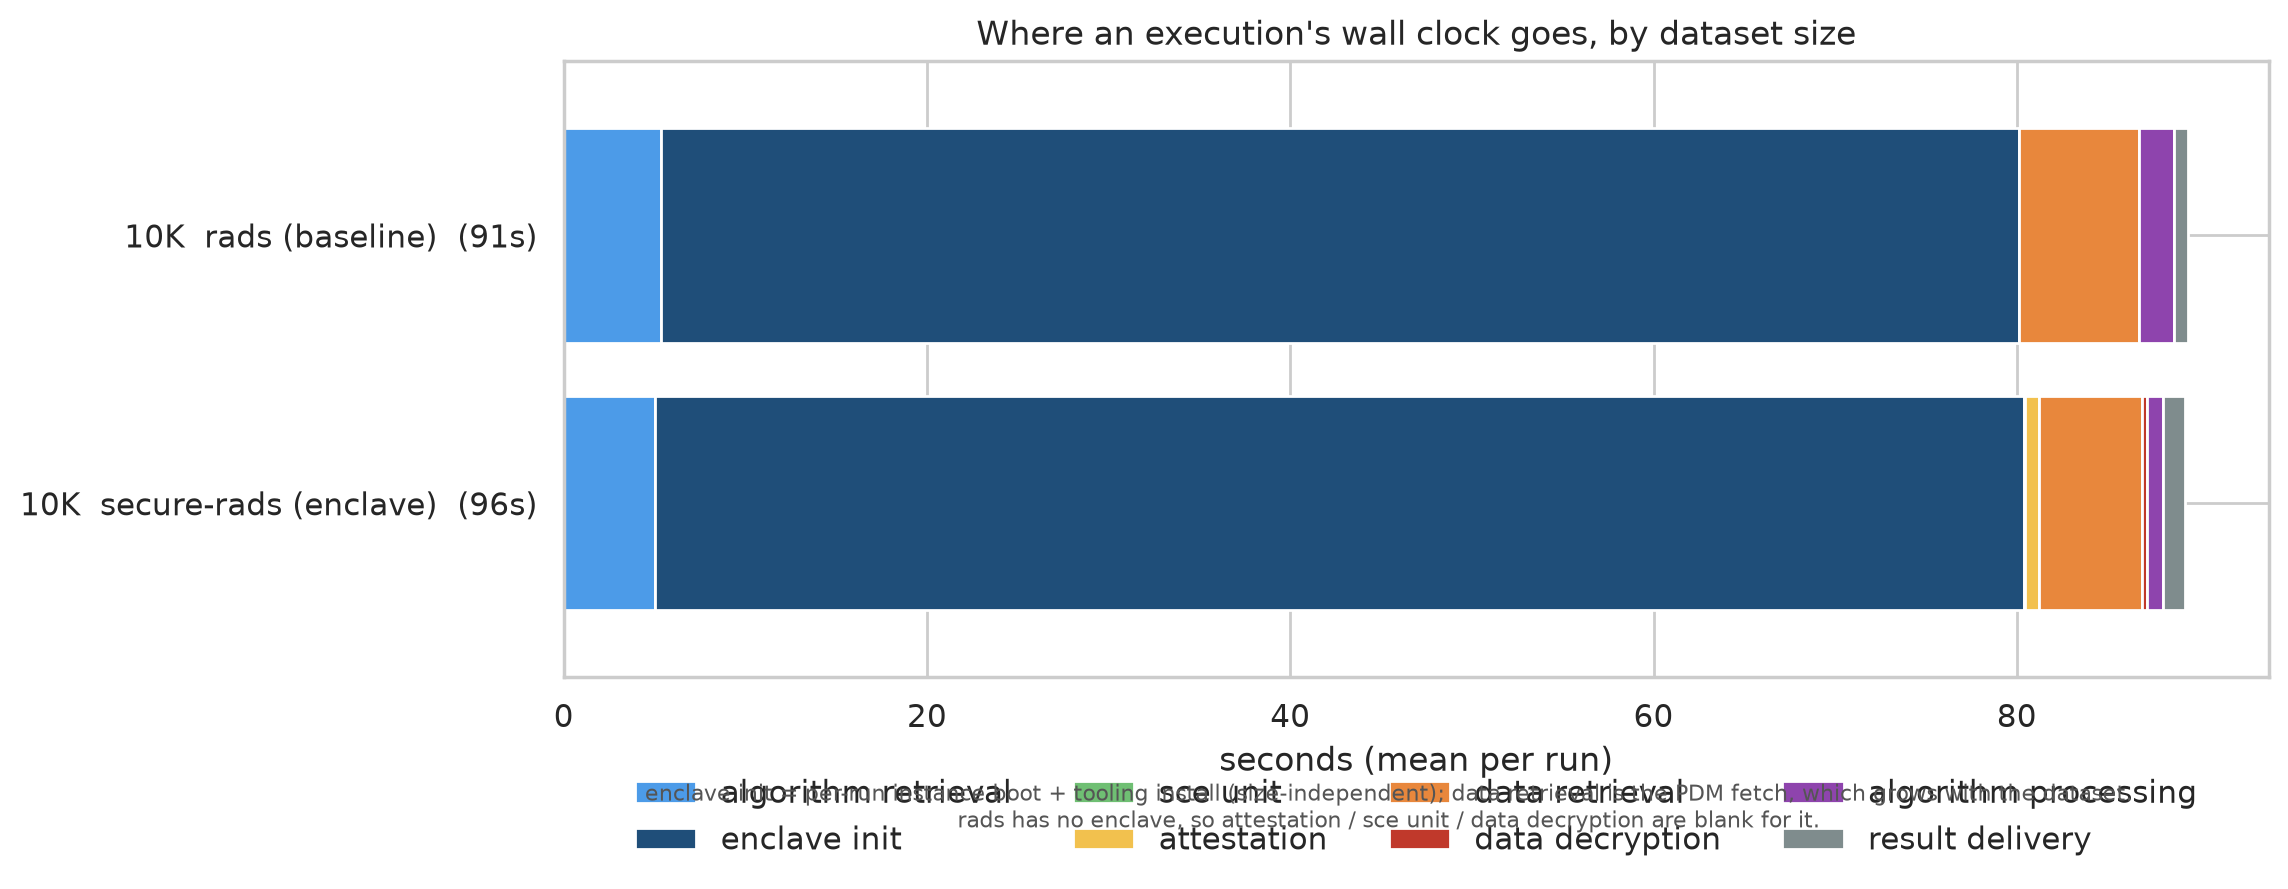
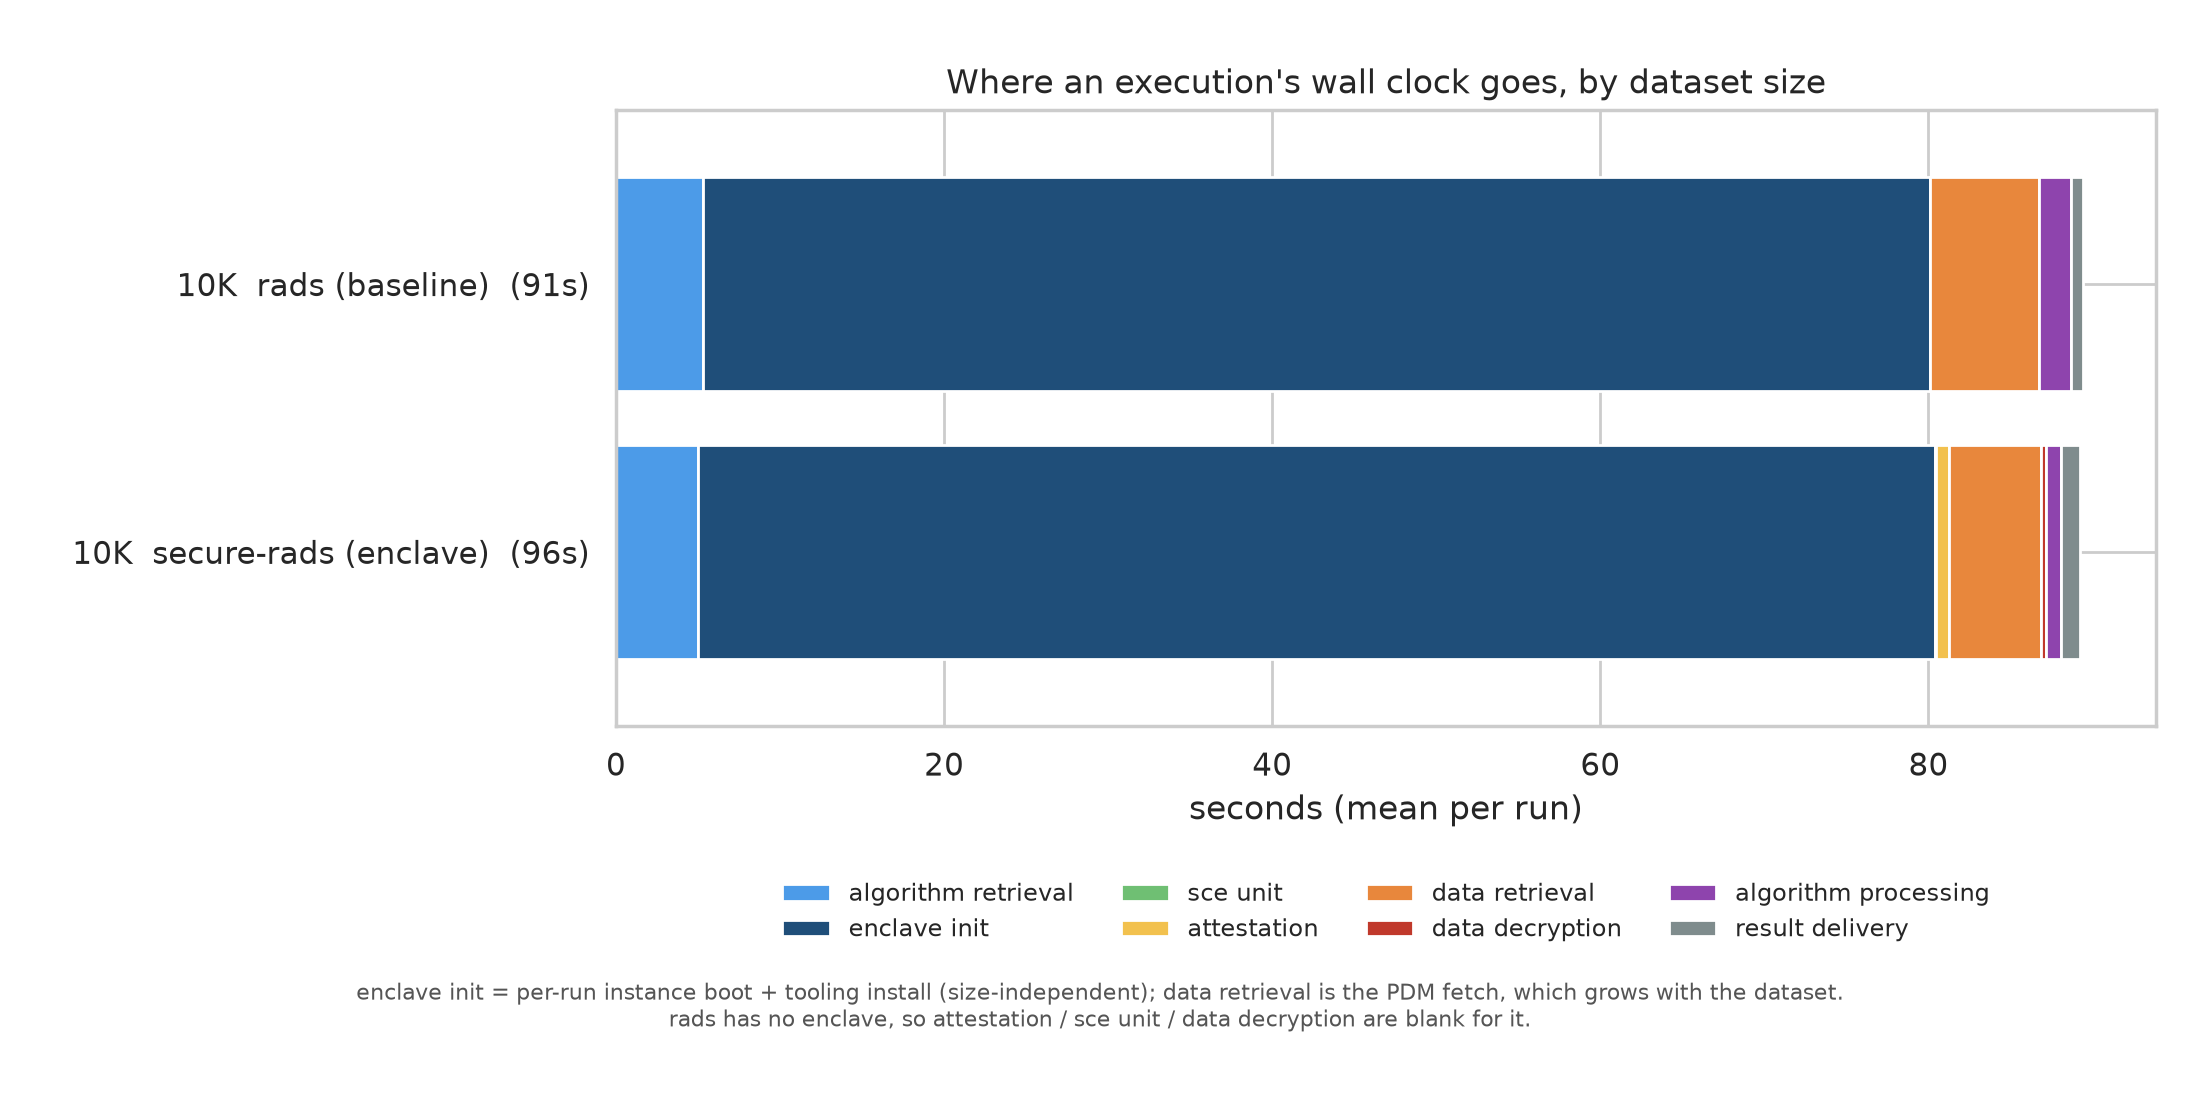
fix(benchmark): keep phases legend and footnote from overlapping

Changed region(s): [[0.0, 0.0304, 1.0, 0.9719]]

diff --git a/benchmark/src/plot.py b/benchmark/src/plot.py
@@ -46,9 +46,9 @@ def load() -> pd.DataFrame:
     return df
 
 
-def _save(fig: plt.Figure, name: str) -> None:
+def _save(fig: plt.Figure, name: str, *, tight: bool = True) -> None:
     out = FIG_DIR / name
-    fig.savefig(out, bbox_inches="tight", dpi=200)
+    fig.savefig(out, bbox_inches="tight" if tight else None, dpi=200)
     plt.close(fig)
     logger.info("wrote {}", out.relative_to(ROOT))
 
@@ -65,15 +65,24 @@ def phases_figure(df: pd.DataFrame) -> None:
     )
     plot_df = means.set_index("row")[list(PHASES)].rename(columns=PHASES)
 
-    fig, ax = plt.subplots(figsize=(11, max(4, 0.55 * len(plot_df) + 2)))
+    # Extra height + fixed bottom margin so legend and footnote do not collide under tight bbox.
+    fig, ax = plt.subplots(figsize=(11, max(5.5, 0.7 * len(plot_df) + 3.8)))
     plot_df.plot.barh(stacked=True, color=PHASE_COLORS, width=0.8, ax=ax, legend=False)
     ax.invert_yaxis()
     ax.set_xlabel("seconds (mean per run)")
     ax.set_ylabel("")
     ax.set_title("Where an execution's wall clock goes, by dataset size")
-    ax.legend(list(PHASES.values()), loc="upper center", bbox_to_anchor=(0.5, -0.12), ncol=4, frameon=False)
-    fig.text(0.5, -0.02, NOTE, ha="center", va="top", fontsize=8, color="#555555")
-    _save(fig, "sweep-phases.png")
+    fig.subplots_adjust(left=0.28, right=0.98, top=0.9, bottom=0.34)
+    ax.legend(
+        list(PHASES.values()),
+        loc="upper center",
+        bbox_to_anchor=(0.5, -0.22),
+        ncol=4,
+        frameon=False,
+        fontsize=8.5,
+    )
+    fig.text(0.5, 0.06, NOTE, ha="center", va="bottom", fontsize=8, color="#555555")
+    _save(fig, "sweep-phases.png", tight=False)
 
 
 def scaling_figure(df: pd.DataFrame) -> None:
